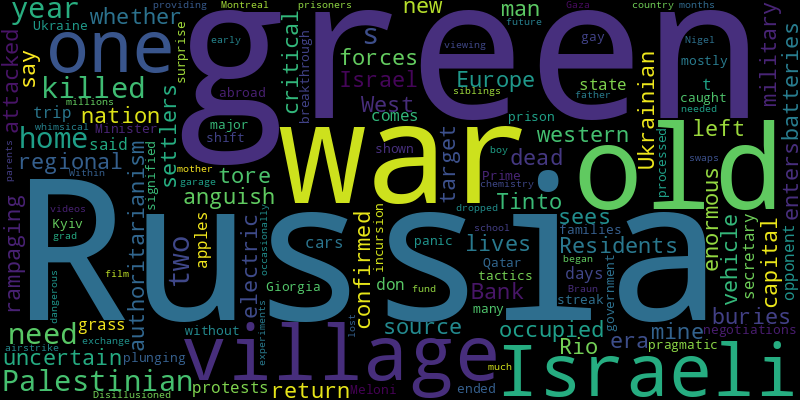
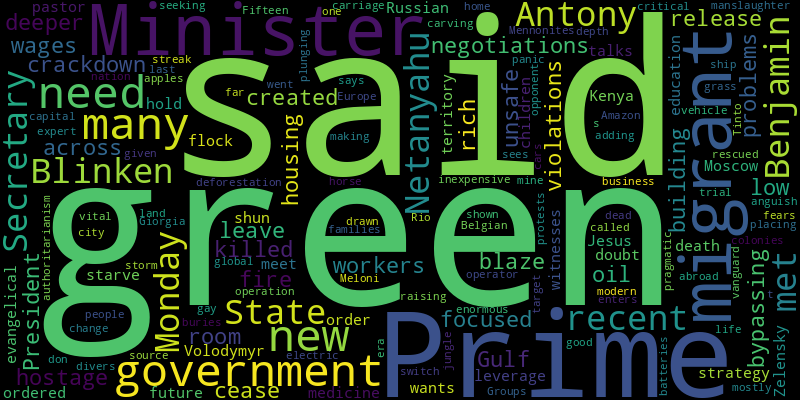
chore(bot): 😂 auto commit

diff --git a/README.md b/README.md
@@ -2,32 +2,35 @@
 Auto RSS New York Times and Generate Word Cloud
 
 ## New York Times Global News
+* Secretary of State Antony Blinken, who met with Prime Minister Benjamin Netanyahu on Monday, said recent negotiations had created room for a cease-fire and hostage release.
+* After the blaze killed 49 migrant workers, a government crackdown focused on building violations — bypassing deeper problems that leave migrants with low wages and unsafe housing across the oil-rich Gulf.
+* President Volodymyr Zelensky wants to hold Russian territory as leverage in future talks. In Moscow, many doubt the strategy.
+* An evangelical pastor in Kenya ordered his flock to shun education and medicine and starve their children to death in order to meet Jesus, witnesses in a manslaughter trial said.
+* Groups of Mennonites, seeking inexpensive land far from modern life, are carving out new colonies in the Amazon. They are also raising fears that they are adding to the deforestation of the vital jungle.
+* Fifteen people have been rescued after the ship went down in a storm, and expert divers were called in given the depth of the operation.
+* The city’s last horse-drawn carriage operator says business is good since making the switch, placing the Belgian capital in the vanguard of a global change.
 * The nation is in anguish as it buries its dead and enters a new era of authoritarianism.
-* In the regional capital, those who left their homes as Ukrainian forces tore into western Russia are uncertain whether they can ever return to their old lives.
-* Residents of the village in the Israeli-occupied West Bank say one Palestinian man was killed by rampaging settlers. Israel’s military confirmed the village was attacked.
-* A Rio Tinto mine that Europe sees as a critical source for electric vehicle batteries has been the target of enormous protests. “I don’t need green cars. I need green apples and green grass,” said one opponent.
-* The secretary of state’s trip comes days after negotiations in Qatar ended without a major breakthrough.
 * Prime Minister Giorgia Meloni has mostly shown a pragmatic streak abroad. But at home, her government is plunging many gay families into panic.
-* The incursion caught Russia by surprise and signified a shift in tactics for Kyiv after more than two years of war with Russia.
-* More than 300 have been processed in a prison in Ukraine, providing the country with a much-needed “exchange fund” for future swaps of prisoners of war.
-* Disillusioned with grad school, Nigel Braun dropped out to film chemistry videos in his parents’ garage in Montreal. Then millions began viewing his whimsical and occasionally dangerous experiments.
-* A 9-year-old Palestinian boy lost his mother, father and two siblings in an Israeli airstrike early in the Gaza war. Within months, he, too, was killed.
+* A Rio Tinto mine that Europe sees as a critical source for electric vehicle batteries has been the target of enormous protests. “I don’t need green cars. I need green apples and green grass,” said one opponent.
 
 ![Global](./global.png)
 ## New York Times United States News
+* When Democrats met that year, the violence that erupted between protesters and the police shook the nation. Here are memories of some of the people who lived it.
+* Activists are pushing for policy changes on Gaza as Democrats hold their convention. Chicago officials are confident they will avoid a repeat of the chaos that unfolded in 1968.
+* As his city hosts the Democrats, Mayor Brandon Johnson wants to change how the world sees Chicago. But protests bring uncertainty, and the convention carries risks.
 * John F. Manning has served as interim provost since March, and is considered a top contender for university president.
-* In Rodanthe, N.C., seven homes have been lost to the ocean in the last four years, as rising sea levels erode shorelines and put more buildings at risk.
-* Over her career, her rhetoric has tracked the national mood. So do Americans now want a prosecutor-in-chief?
-* About 50,000 people are expected in the nation’s third-largest city for the Democrats’ convention. Some Chicagoans are thrilled. Others are skipping town.
-* An unusual and chaotic set of political circumstances forced Illinois’s billionaire governor to take the lead in securing the Democratic convention for Chicago.
-* A far-right plank on immigration that is rooted in a baseless theory has found purchase among Republicans and right-leaning independents in parts of Ohio.
-* The crisis continues to play out on the city’s streets, reminding Democrats of a potential liability — border crossings — ahead of the election.
-* Nearly 14 years ago, Kamala Harris’s opponent in the California attorney general’s race gave an answer at a little-watched debate that was frank — and fateful for the future Democratic presidential nominee.
-* As President Biden’s understudy, Ms. Harris did not often get to lead on signature issues. But she found roles to play on abortion rights, gun safety and a Supreme Court appointment.
-* At a rally in Pennsylvania, former President Donald J. Trump vacillated between criticisms of the economy and immigration and personal attacks on Vice President Kamala Harris.
+* The three women, who have been supporting the Democrats’ presidential campaign, will on Monday focus on abortion rights, a key pillar of the party’s policy goals.
+* On policy, the vice president is drafting off President Biden, essentially cherry-picking the most popular parts of his agenda and betting that a younger messenger can sell them to Americans.
+* The unelected body that shapes voting rules has a new conservative majority who question the state’s 2020 results. They now have new power to influence the results in 2024.
+* In a lengthy report released on the first day of the Democratic National Convention, Republicans used circumstantial evidence to accuse the president of corruption tied to his son’s foreign business dealings.
+* The party is calling for tax increases on corporations and the rich while also focusing on working families, infrastructure, climate change and abortion rights.
+* The Democratic presidential ticket went to the crucial swing state on Sunday to visit areas that are competitive and somewhat more conservative.
 
 ![US](./usnews.png)
 ## New York Times Asia News
+* Japan’s Seven & i Holdings, which operates 85,000 stores, said it had received a bid from the Canadian convenience store chain Alimentation Couche-Tard.
+* Alarmed by the prospect of increased tariffs on Chinese goods if Donald Trump is elected, some American companies are stockpiling parts and delaying expansions.
+* Plus, the dark side of Shen Yun
 * Washington says it would defend the South against North Korea with nuclear arms, if need be. But more and more people in the South think it should rely on itself.
 * The Paris prosecutor’s office said that the diplomat had been struck in the face with the butt of a pistol. The robbery took place in Paris’s affluent 7th arrondissement.
 * Some measure of self-governance will be restored in the region, which was stripped of its semiautonomous status by Prime Minister Narendra Modi’s government.
@@ -35,8 +38,5 @@ Auto RSS New York Times and Generate Word Cloud
 * The political heir to an influential family is now leading Thailand with no governing experience in a tumultuous time.
 * The abrupt rise of the scion of a powerful and polarizing political family is widely seen as a continuation of the meddling that has undermined Thai democracy.
 * The authorities have warned that the storm, which has already flooded some streets in the Tokyo area, could bring violent winds and cause landslides.
-* Ying Ying is the oldest panda on record to give birth for the first time. Also unusual: her cubs were naturally conceived, a rarity for the vulnerable species.
-* Plus, with one room, Brazil confronts its racist past.
-* A virtuoso of physical comedy, he performed around the world with his wife. Most notably, he helped stage clown shows in Afghanistan.
 
 ![Asian](./asian.png)
